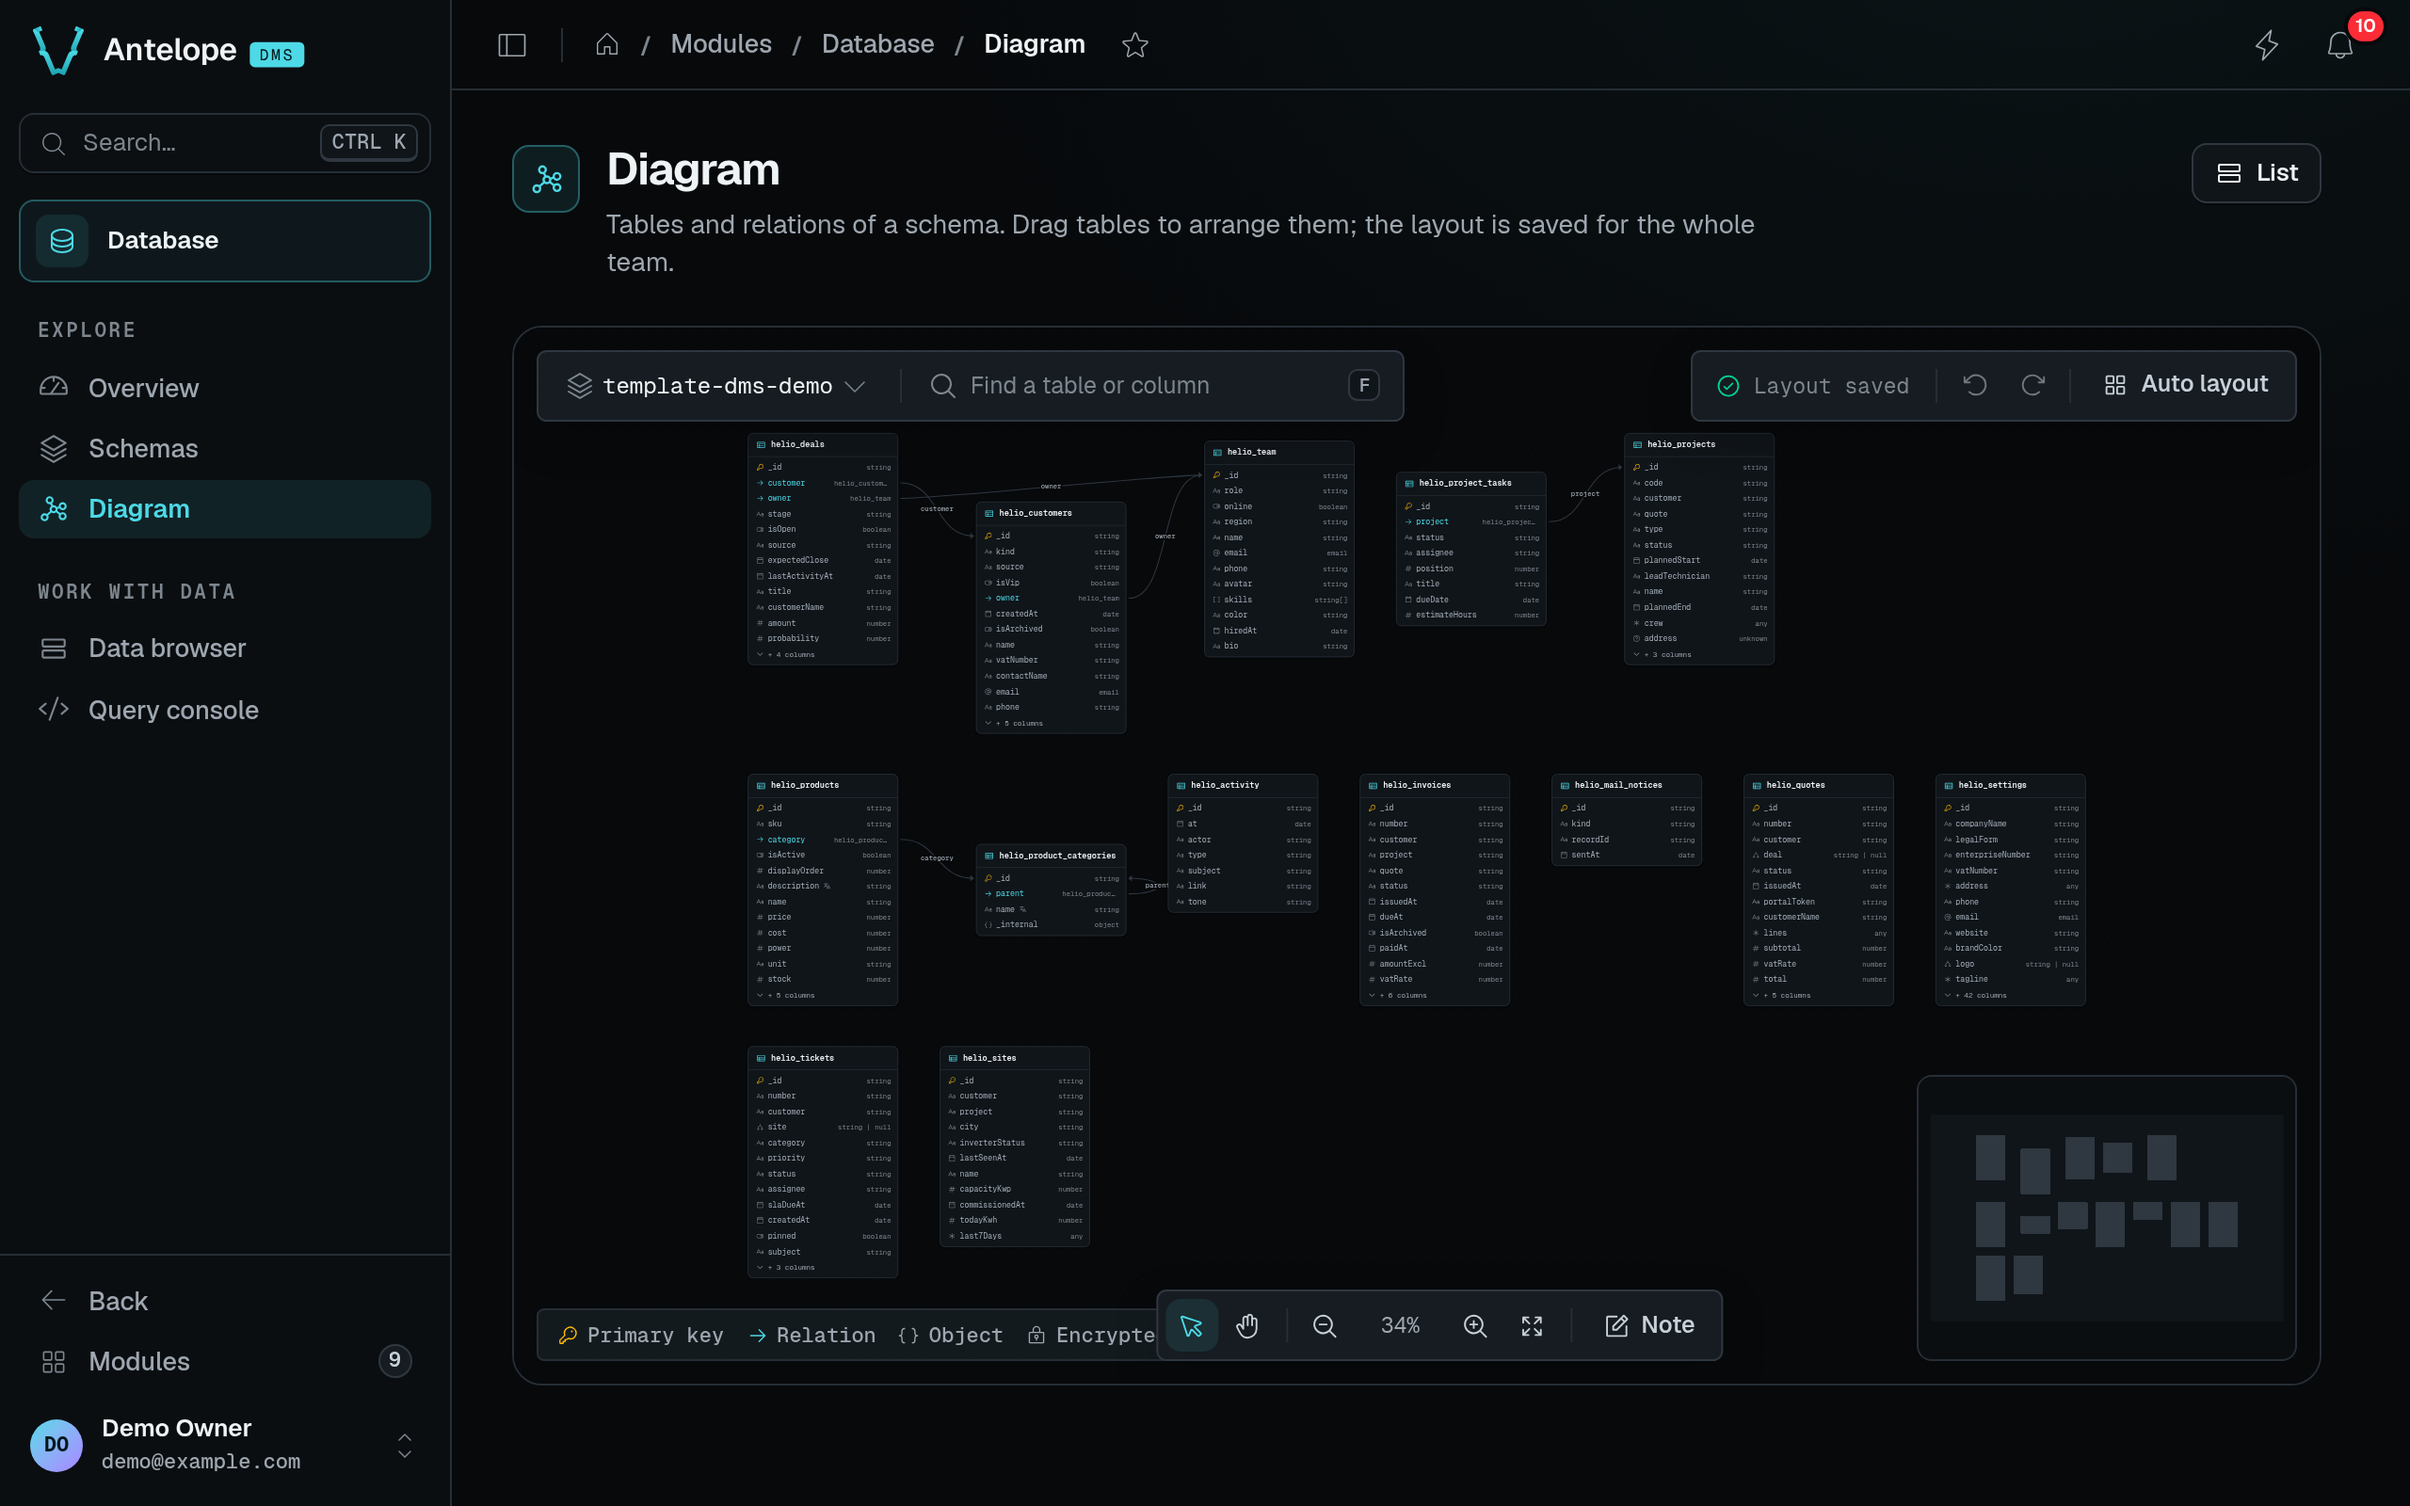
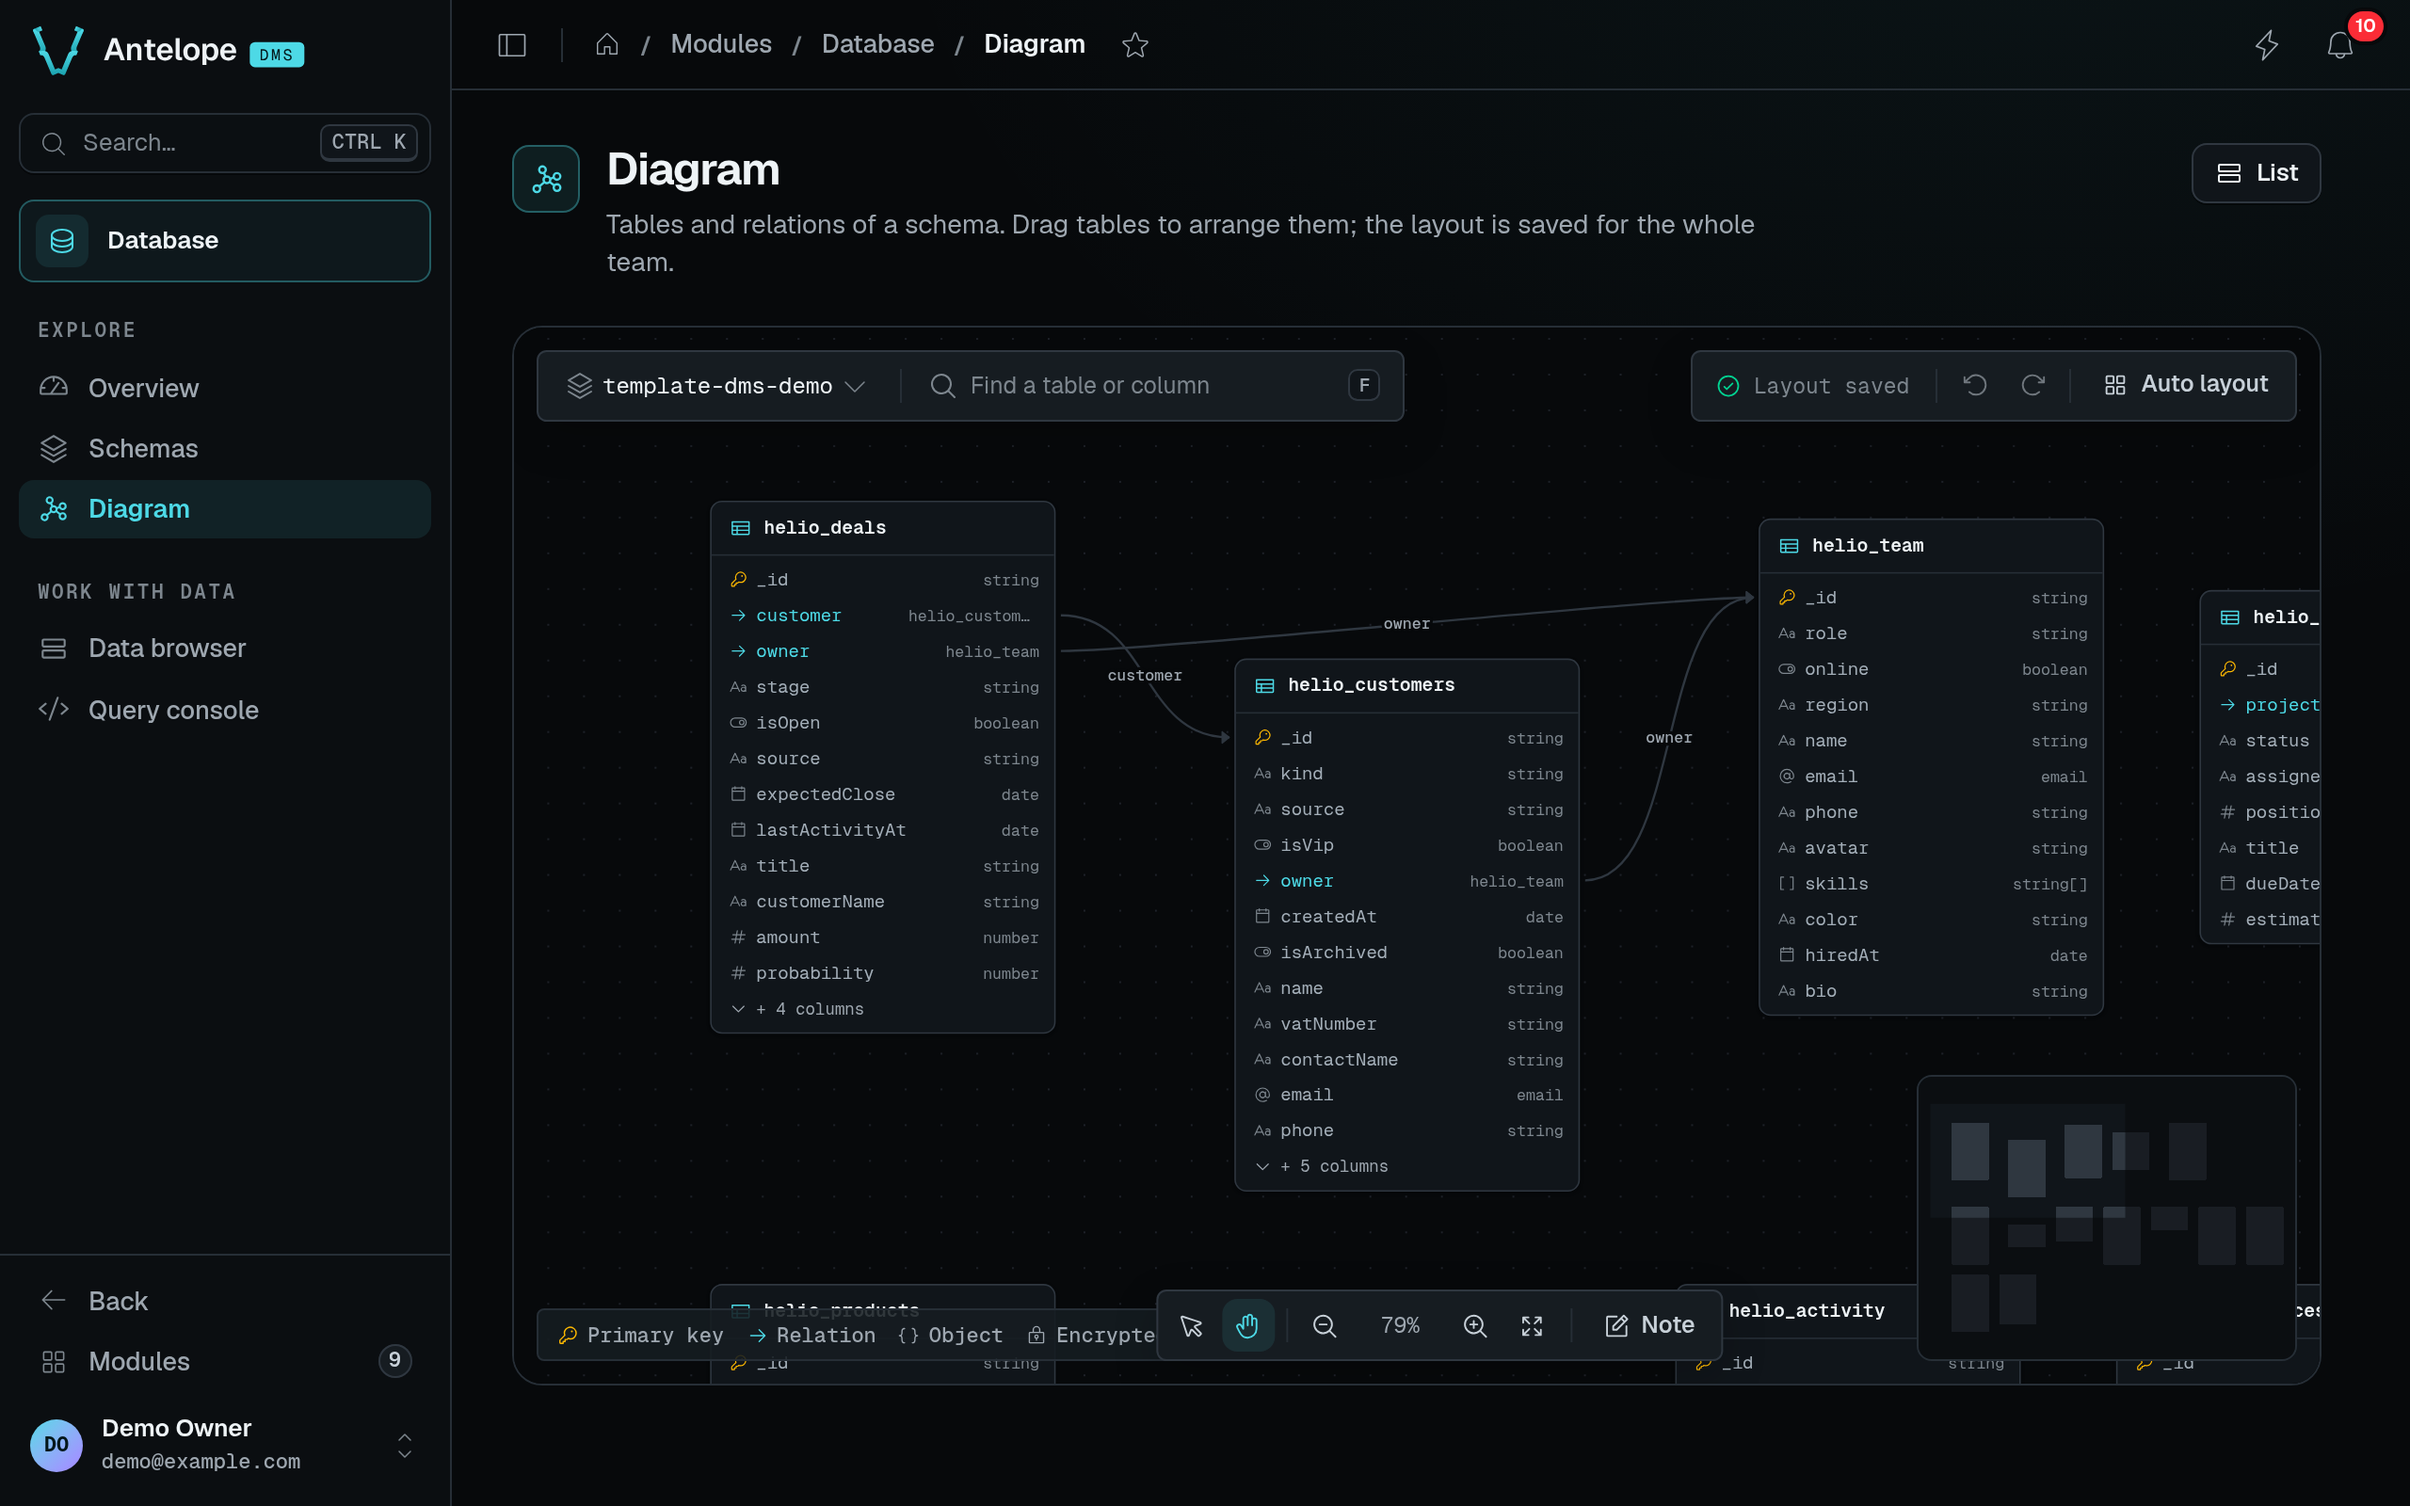
docs(readme): frame the dark hero on a readable group of tables

diff --git a/README.md b/README.md
@@ -12,7 +12,7 @@
 
 </div>
 
-<img data-illustration src="./.github/readme/hero.png" width="100%" alt="The Database diagram in the dark theme: the tables and relations of the Helio schema, with a minimap and the Auto layout button.">
+<img data-illustration src="./.github/readme/hero.png" width="100%" alt="The Database diagram in the dark theme: the helio_deals, helio_customers and helio_team tables of the Helio schema, with their columns and the customer and owner relations between them.">
 
 ## What it does
 
